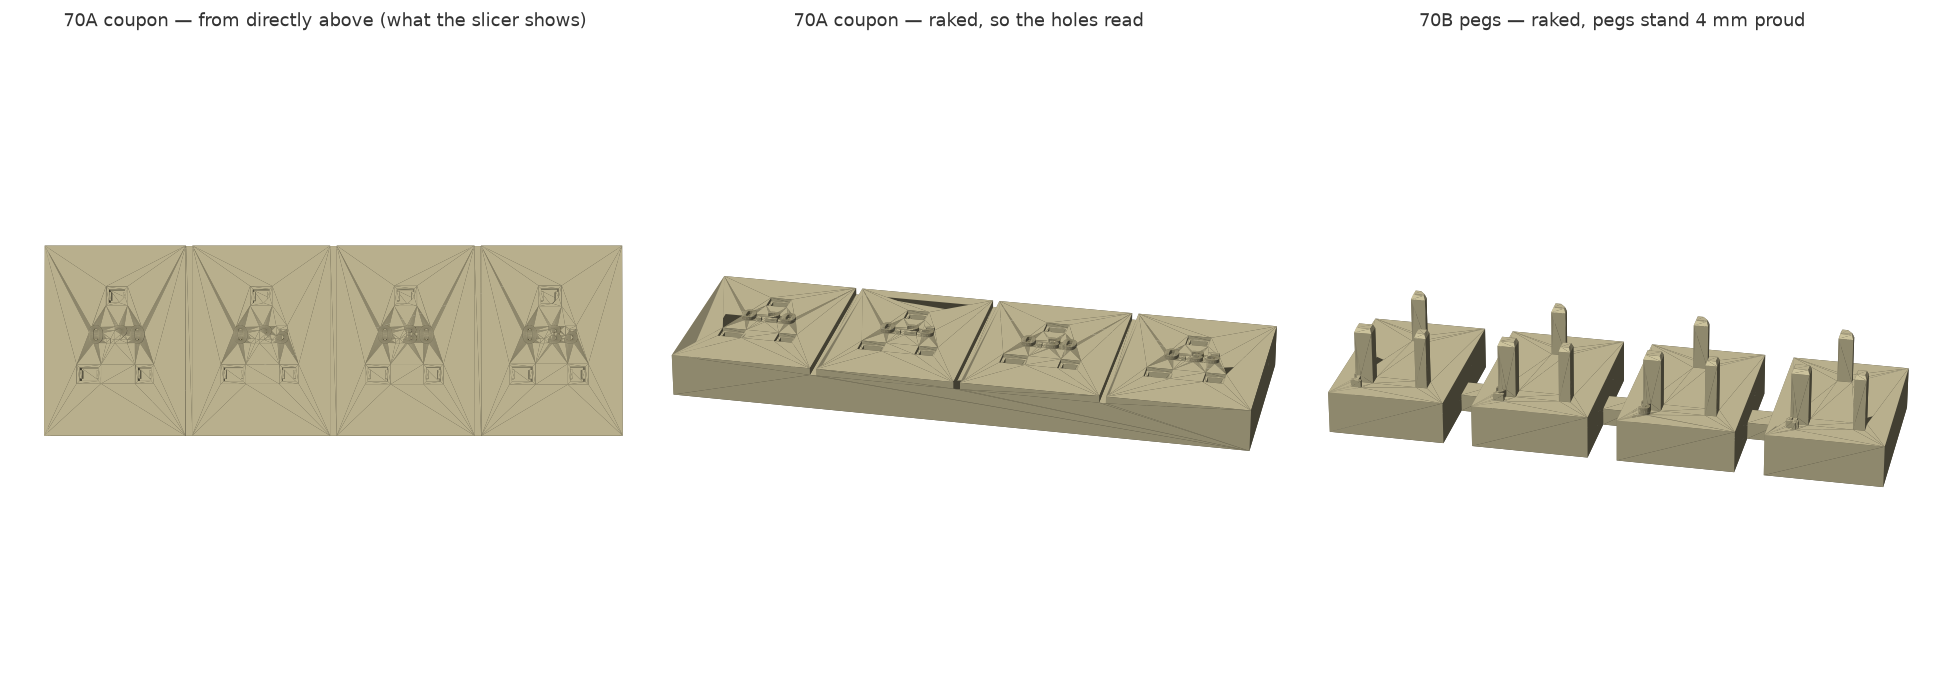
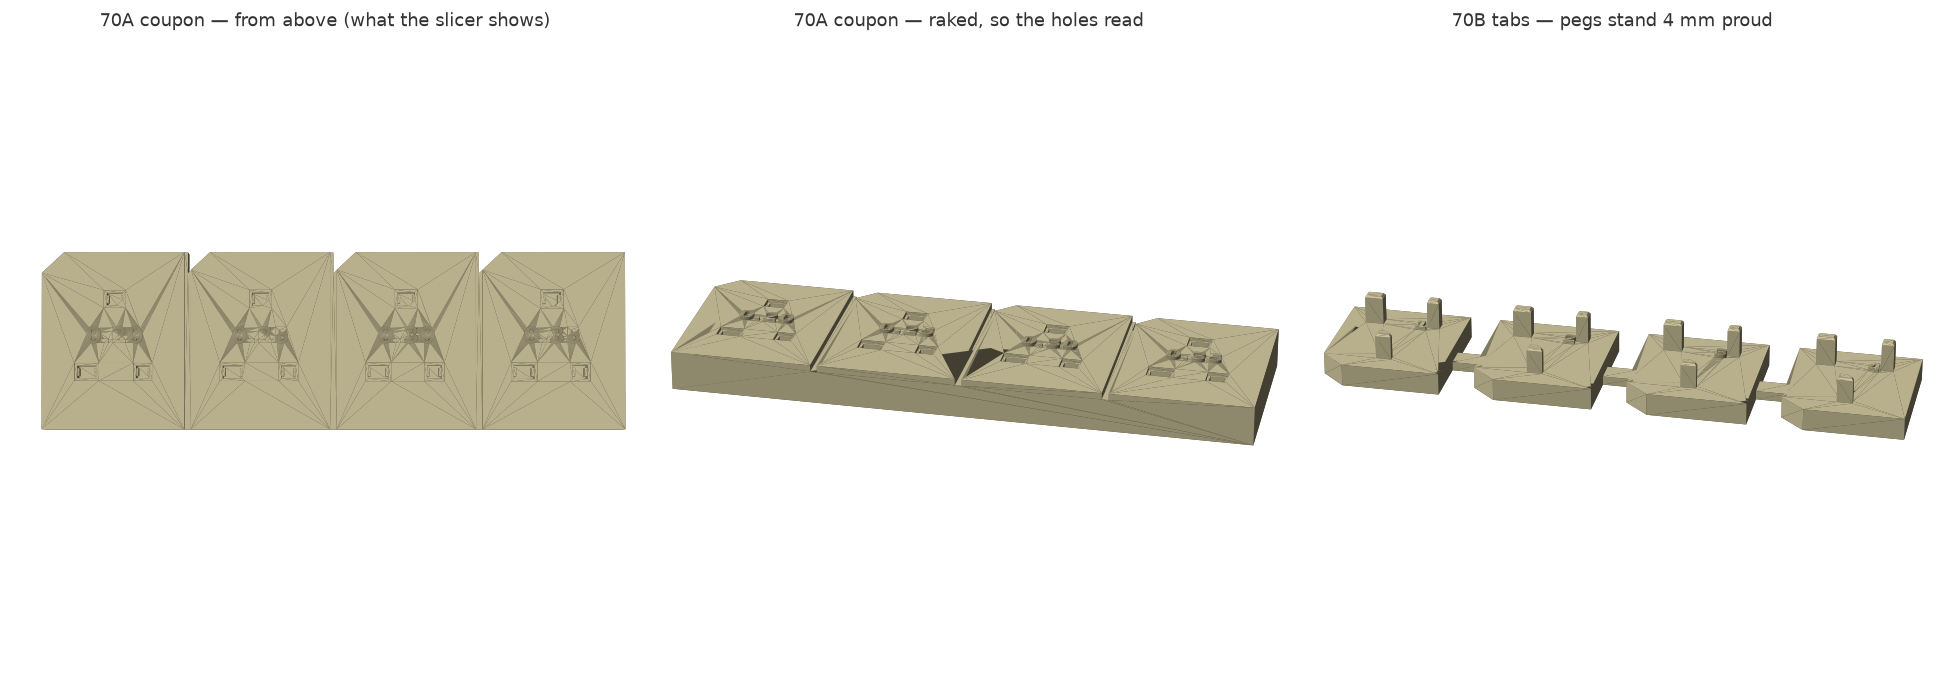
Repair render_coupon.py and add a smoke test
The previous commit pushed render_coupon.py in a state that would not parse: a
mechanical re-indent to add a __main__ guard mangled it, and nothing checked.
Rewritten cleanly and confirmed to run.

Adds smoke.py, which parses and imports every file and checks each script still
exposes its entry point. It does not test geometry -- verify.py does that -- it
just makes it impossible to push a file that does not even compile. Run it
before committing.

Claude-Session: https://claude.ai/code/session_012tiD3pGjv51MEmtC2XygFf

diff --git a/diagon-alley-book-nook/render_coupon.py b/diagon-alley-book-nook/render_coupon.py
@@ -4,57 +4,72 @@
     python3 render_coupon.py   ->  out/preview/coupon_check.png
 
 Worth having as its own script: from directly above -- which is how a slicer shows a
-flat plate -- a 2 mm peg and a 2.4 mm hole look identical, so it is easy to believe
-the coupon is wrong (or, worse, to believe it is right when it is not).
+flat plate -- a 2 mm peg and a 2.4 mm hole look identical, so it is easy to believe the
+coupon is wrong, or, worse, to believe it is right when it is not.
 """
-import numpy as np, matplotlib
+import math
+import os
+
+import numpy as np
+import matplotlib
 matplotlib.use("Agg")
 import matplotlib.pyplot as plt
 from mpl_toolkits.mplot3d.art3d import Poly3DCollection
-import cadquery as cq
+
 from lib.mount import tolerance_coupon
+
+OUT = os.path.join(os.path.dirname(os.path.abspath(__file__)), "out", "preview")
+
 
 def tess(shape, tol=0.12):
     v, t = shape.val().tessellate(tol)
     return np.array([[p.x, p.y, p.z] for p in v])[np.array(t)]
 
-def shade(tris, base):
-    n = np.cross(tris[:,1]-tris[:,0], tris[:,2]-tris[:,0])
-    ln = np.linalg.norm(n, axis=1, keepdims=True); ln[ln==0]=1
-    n = n/ln
-    L = np.array([-0.4,-0.5,0.77]); L/=np.linalg.norm(L)
-    k = 0.30+0.70*np.clip(n@L,0,1)
-    return np.clip(np.array(base)[None,:]*k[:,None],0,1)
 
-def order(tris, elev, azim):
-    import math
-    e,a = math.radians(elev), math.radians(azim)
-    view = np.array([math.cos(e)*math.cos(a), math.cos(e)*math.sin(a), math.sin(e)])
-    return np.argsort(tris.mean(axis=1)@view)
+def shade(tris, base):
+    n = np.cross(tris[:, 1] - tris[:, 0], tris[:, 2] - tris[:, 0])
+    ln = np.linalg.norm(n, axis=1, keepdims=True)
+    ln[ln == 0] = 1.0
+    n = n / ln
+    light = np.array([-0.4, -0.5, 0.77])
+    light = light / np.linalg.norm(light)
+    k = 0.30 + 0.70 * np.clip(n @ light, 0, 1)
+    return np.clip(np.array(base)[None, :] * k[:, None], 0, 1)
+
+
+def depth_order(tris, elev, azim):
+    e, a = math.radians(elev), math.radians(azim)
+    view = np.array([math.cos(e) * math.cos(a), math.cos(e) * math.sin(a), math.sin(e)])
+    return np.argsort(tris.mean(axis=1) @ view)
+
 
 def main():
-        coupon, pegs = tolerance_coupon()
-    fig = plt.figure(figsize=(15,6.5), facecolor="white")
-    for i,(obj,elev,azim,title,lim) in enumerate([
-            (coupon, 88, -90, "70A coupon — from directly above (what the slicer shows)", (96,34)),
-            (coupon, 26, -78, "70A coupon — raked, so the holes read", (96,34)),
-            (pegs,   26, -78, "70B pegs — raked, pegs stand 4 mm proud", (46,16))]):
+    os.makedirs(OUT, exist_ok=True)
+    coupon, tabs = tolerance_coupon()
+    views = [(coupon, 88, -90, "70A coupon — from above (what the slicer shows)", (104, 34)),
+             (coupon, 26, -78, "70A coupon — raked, so the holes read", (104, 34)),
+             (tabs, 26, -78, "70B tabs — pegs stand 4 mm proud", (95, 24))]
+
+    fig = plt.figure(figsize=(15, 6.5), facecolor="white")
+    for i, (obj, elev, azim, title, box) in enumerate(views):
         tris = tess(obj)
-        ax = fig.add_subplot(1,3,i+1, projection="3d", facecolor="white")
-        o = order(tris, elev, azim)
+        ax = fig.add_subplot(1, 3, i + 1, projection="3d", facecolor="white")
+        o = depth_order(tris, elev, azim)
         pc = Poly3DCollection(tris[o], linewidths=0, zsort="average")
-        pc.set_facecolor(shade(tris[o], (0.86,0.82,0.66)))
+        pc.set_facecolor(shade(tris[o], (0.86, 0.82, 0.66)))
         ax.add_collection3d(pc)
-        b = tris.reshape(-1,3)
-        ax.set_xlim(b[:,0].min()-2, b[:,0].max()+2)
-        ax.set_ylim(b[:,1].min()-2, b[:,1].max()+2)
-        ax.set_zlim(0, max(12, b[:,2].max()))
-        ax.set_box_aspect((lim[0], lim[1], 14))
-        ax.view_init(elev=elev, azim=azim); ax.set_axis_off()
+        b = tris.reshape(-1, 3)
+        ax.set_xlim(b[:, 0].min() - 2, b[:, 0].max() + 2)
+        ax.set_ylim(b[:, 1].min() - 2, b[:, 1].max() + 2)
+        ax.set_zlim(0, max(12, b[:, 2].max()))
+        ax.set_box_aspect((box[0], box[1], 14))
+        ax.view_init(elev=elev, azim=azim)
+        ax.set_axis_off()
         ax.set_title(title, fontsize=10, color="#333")
     fig.tight_layout()
-    fig.savefig("out/preview/coupon_check.png", dpi=130, bbox_inches="tight", facecolor="white")
-    print("written")
+    out = os.path.join(OUT, "coupon_check.png")
+    fig.savefig(out, dpi=130, bbox_inches="tight", facecolor="white")
+    print("  ->", out)
 
 
 if __name__ == "__main__":

diff --git a/diagon-alley-book-nook/smoke.py b/diagon-alley-book-nook/smoke.py
@@ -1,0 +1,60 @@
+#!/usr/bin/env python3
+"""Import and run every script and module, so a broken file cannot reach the repo.
+
+    python3 smoke.py
+
+Cheap insurance: render_coupon.py was pushed in a state that would not even parse,
+because nothing checked it. This does not test geometry -- verify.py does that -- it
+only proves every file imports and every entry point is callable.
+"""
+import ast
+import glob
+import importlib
+import os
+import sys
+
+HERE = os.path.dirname(os.path.abspath(__file__))
+FAILS = []
+
+
+def check(label, fn):
+    try:
+        fn()
+        print(f"  ok    {label}")
+    except Exception as e:
+        FAILS.append(label)
+        print(f"  FAIL  {label}: {type(e).__name__}: {e}")
+
+
+def main():
+    sys.path.insert(0, HERE)
+    files = sorted(glob.glob(os.path.join(HERE, "*.py"))
+                   + glob.glob(os.path.join(HERE, "*", "*.py")))
+
+    print("[parse] every file is syntactically valid")
+    for f in files:
+        rel = os.path.relpath(f, HERE)
+        check(rel, lambda f=f: ast.parse(open(f).read()))
+
+    print("\n[import] every module imports")
+    for f in files:
+        rel = os.path.relpath(f, HERE)
+        if os.path.basename(f) in ("smoke.py",):
+            continue
+        mod = rel[:-3].replace(os.sep, ".")
+        if mod.endswith(".__init__"):
+            mod = mod[:-9]
+        check(mod, lambda m=mod: importlib.import_module(m))
+
+    print("\n[entry points] every script exposes what it claims")
+    import build, verify, plates, render, render_coupon
+    for mod, name in ((build, "main"), (verify, "check_fits"), (plates, "main"),
+                      (render, "main"), (render_coupon, "main")):
+        check(f"{mod.__name__}.{name}", lambda m=mod, n=name: getattr(m, n))
+
+    print(f"\n{len(FAILS)} failures")
+    return 1 if FAILS else 0
+
+
+if __name__ == "__main__":
+    sys.exit(main())

diff --git a/diagon-alley-book-nook/README.md b/diagon-alley-book-nook/README.md
@@ -36,6 +36,7 @@ python3 verify.py        # fit, keying, grip, envelope and manifest checks
 python3 plates.py        # arrange the parts onto print plates -> out/plates
 python3 render.py        # the preview images above
 python3 render_coupon.py # a raked view of the tolerance coupon
+python3 smoke.py         # every file parses, imports and exposes its entry point
 ```
 
 **Everything under `lib/`, `parts/` and `data/` is import-only** — library modules the
